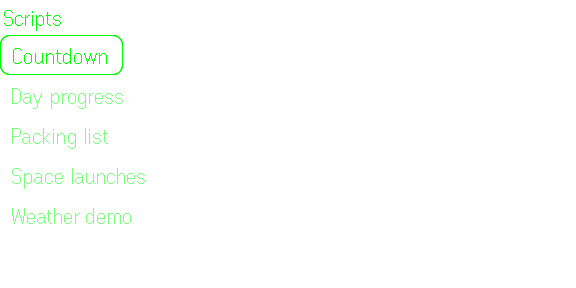
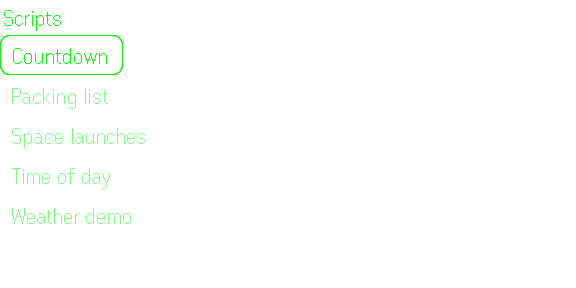
Preload one example (Time of day); 0.1.1; LICENSE, README; public-repo prep
- On first launch the app adds one example script, "Time of day" (the date
  and time, and progress through the day, week, month and year). Deleting
  it doesn't bring it back. Simulator: a clean first launch of the
  production build lists exactly that one script; 0 console errors.
- Store screenshots re-captured with it; listing mentions it; 0.1.1
  release notes (replaces the unpublished 0.1.0).
- MIT LICENSE and README for the public repo; install.sh downloads from
  liyiyuian/evenScriptable/main/bridge. Project notes stay local.

Changed region(s): [[0.0312, 0.5938, 0.25, 0.6562], [0.0312, 0.3125, 0.2188, 0.375], [0.0, 0.4375, 0.25, 0.5]]

diff --git a/glasses/src/examples/time-of-day.js b/glasses/src/examples/time-of-day.js
@@ -1,0 +1,26 @@
+// Time of day: the example that comes with the app. The date and time, then how far through the
+// day, week, month and year we are. On the glasses, tap to run it again.
+const now = new Date()
+const df = new DateFormatter()
+df.dateFormat = "EEEE, MMM d"
+const bar = (p) => "━".repeat(Math.round(p / 5)) + "─".repeat(20 - Math.round(p / 5))
+const pct = (from, to) => Math.round(((now - from) / (to - from)) * 100)
+const day = new Date(now.getFullYear(), now.getMonth(), now.getDate())
+const week = new Date(day)
+week.setDate(day.getDate() - ((day.getDay() + 6) % 7)) // Monday
+const rows = [
+  ["Today", pct(day, new Date(day.getFullYear(), day.getMonth(), day.getDate() + 1))],
+  ["This week", pct(week, new Date(week.getFullYear(), week.getMonth(), week.getDate() + 7))],
+  ["This month", pct(new Date(now.getFullYear(), now.getMonth(), 1), new Date(now.getFullYear(), now.getMonth() + 1, 1))],
+  ["This year", pct(new Date(now.getFullYear(), 0, 1), new Date(now.getFullYear() + 1, 0, 1))],
+]
+
+const w = new ListWidget()
+w.addText(df.string(now) + " · " + now.toLocaleTimeString([], { hour: "numeric", minute: "2-digit" }))
+for (const [label, p] of rows) {
+  const row = w.addStack()
+  row.addText(label)
+  row.addSpacer()
+  row.addText(bar(p) + " " + p + "%")
+}
+Script.setWidget(w)

diff --git a/glasses/src/store.ts b/glasses/src/store.ts
@@ -3,6 +3,8 @@
 // Large values are split across keys of 50,000 characters, as Even's device-features skill shows.
 import { call } from './sdk.ts'
 import type { StoredFile } from './runtime/types.ts'
+import { uuid } from './runtime/scriptable.ts'
+import TIME_OF_DAY from './examples/time-of-day.js?raw'
 
 export interface ScriptMeta {
   id: string
@@ -61,6 +63,10 @@ export const store = {
     this.keychain = await getJSON('keychain', {})
     this.files = await getJSON('files', {})
     this.bridge = await getJSON('bridge', null)
+    if (!(await getRaw('seeded'))) { // first launch only: the one example that comes with the app
+      await this.saveScript({ id: uuid(), name: 'Time of day', fav: false }, TIME_OF_DAY)
+      await setRaw('seeded', '1')
+    }
   },
 
   async source(id: string): Promise<string> {

diff --git a/README.md b/README.md
@@ -1,0 +1,91 @@
+# evenScriptable
+
+Run your own JavaScript scripts on **Even Realities G2** smart glasses. Add a script on your phone
+(in the Even app), run it from the glasses. Many [Scriptable](https://scriptable.app) scripts run as
+they are: widgets show as text, `Alert` and `UITable` become a list you pick from, live scripts update
+while they run.
+
+Inspired by Scriptable, the iOS automation app by Simon B. Støvring. This project is independent and
+not affiliated with Scriptable or its developer. (In the Even Hub the app is listed as **Script Runner**,
+since app names can't contain "Even".)
+
+## How it works
+
+```
+ phone (Even app)                                  your computer (optional)
+ ┌──────────────────────────────┐   Tailscale    ┌──────────────────────────────┐
+ │ glasses app (Even Hub plugin)│ ─────────────► │ scriptbridge (Python stdlib) │ ─► the web / local services
+ │  scripts run in a Web Worker │  HTTPS + pwd   │  127.0.0.1:8795, tailnet-only│
+ └──────────────┬───────────────┘                └──────────────────────────────┘
+                │ Bluetooth (Even SDK)
+          G2 glasses: text, lists, gestures
+```
+
+- **Scripts run on the phone**, in a Web Worker inside the plugin, with Scriptable-like globals.
+- The Even app only lets a plugin reach approved addresses and the WebView enforces CORS, so a script's
+  `Request` goes through **scriptbridge**, a small server on your own computer, reachable only over your
+  own Tailscale network and protected by a password. Scripts that don't fetch anything need no computer.
+
+## Install the bridge (optional)
+
+Needs Linux with `systemd --user`, Python 3.10+, and Tailscale (logged in; your phone on the same tailnet).
+
+```bash
+curl -fsSL https://raw.githubusercontent.com/liyiyuian/evenScriptable/main/bridge/install.sh | bash
+```
+
+It installs a `scriptbridge` user service, publishes it with `tailscale serve --https=8447` (asks for
+sudo once), and prints an **address** and a **password**. Re-run it to upgrade (it keeps your password
+and settings); `… | bash -s -- --uninstall` removes it. Settings: `~/.config/scriptbridge.env`.
+`BRIDGE_SCRIPTS_DIR` is a folder of `.js` files the phone app can import (default `~/Scripts`).
+
+## Use
+
+1. Install the app from the Even Hub (needs the Even Realities app 2.2.10 or later; iPhone only for now).
+2. Open it in the Even app. Under **Computer**, paste the bridge's address and password → **Save** → **Test**.
+3. **New script** (paste) or **Import from computer**. Put values scripts read with `Keychain.get`
+   (API tokens) in the **Keychain** section. A script's **Parameter** is Scriptable's widget parameter.
+4. On the glasses: **tap** = run, **swipe** = move / scroll, **double-tap** = back (on the list: exit).
+   **Tap then hold** opens a menu with your starred scripts. A **Start** script opens at launch.
+
+## What works
+
+| Scriptable | On the glasses |
+|---|---|
+| `ListWidget`, `WidgetStack`, text, dates | lines of text (styling, colours and drawings are dropped) |
+| `Alert`, `UITable` | a list to pick from (typing isn't possible: text fields cancel) |
+| `QuickLook`, `console.log` | text output |
+| `Request` | through the bridge |
+| `Keychain`, `FileManager` | the Even app's storage on the phone |
+| `DateFormatter`, `RelativeDateTimeFormatter`, `Timer`, `UUID`, `Data`, `importModule`, `args.widgetParameter` | yes |
+| `config.runsOnG2` | `true`, so a script can draw its own glasses layout |
+| `Calendar`, `Reminder`, `Contact`, `Location`, `Photos`, `Notification`, `WebView`, `Speech`, … | not available (a clear error) |
+
+## Security
+
+- Anyone with the bridge password can make your computer fetch any address it can reach, including
+  services on the computer itself (that is how a script can read a local feed). Keep it tailnet-only
+  and keep the password secret.
+- Scripts you add can read all Keychain values and use the bridge. Only add scripts you trust.
+- Keychain values are stored in the Even app's storage, not the iOS Keychain.
+- A script that blocks for 15 s is stopped; a double-tap always stops a running script.
+
+## Development
+
+```
+glasses/   the Even Hub plugin (Vite + TypeScript, official @evenrealities/even_hub_sdk)
+bridge/    scriptbridge.py, install.sh, tests/
+store-assets/  Even Hub listing, privacy policy, icon, screenshots (made from demo-scripts/)
+```
+
+```bash
+cd glasses && npm install
+npm test                              # runtime tests (node --test)
+npm run compat -- <folder> [out.md]   # run a folder of Scriptable scripts, report what works
+npm run build && npm run pack         # dist/ → .ehpk (stamps min app version from SDK 0.0.16)
+cd ../bridge && python3 -m unittest discover tests && bash tests/test_install.sh
+```
+
+## License
+
+MIT — see [LICENSE](LICENSE).

diff --git a/store-assets/README.md b/store-assets/README.md
@@ -9,11 +9,11 @@ Copy-and-paste material for the Even Hub listing. The agent prepares it; you upl
   `https://raw.githubusercontent.com/liyiyuian/evenScriptable/main/store-assets/privacy.txt`.
 - `icon.svg` → `icon-512.png` — app icon (one green hue on dark, like the sibling apps). Uploaded in
   the portal; the manifest has no icon field. Re-export: `inkscape -w 512 -h 512 icon.svg -o icon-512.png`.
-- `screenshots/` — 576×288 captures from the real Even Hub simulator, using only the made-up demo
-  scripts in `demo-scripts/` (never the owner's scripts or data). Re-create with
+- `screenshots/` — 576×288 captures from the real Even Hub simulator, using only the app's preloaded
+  example and the made-up demo scripts in `demo-scripts/` (never the owner's scripts or data). Re-create with
   `./capture_screenshots.sh`:
   1. `1-script-list.png` — the script list
-  2. `2-widget.png` — a Scriptable widget shown as text (Day progress)
+  2. `2-time-of-day.png` — the example that comes with the app (Time of day), a widget shown as text
   3. `3-choice.png` — a UITable to pick from (Packing list)
   4. `4-long-list.png` — a long output that scrolls (Space launches)
   5. `5-weather.png` — another widget (Weather demo, made-up numbers)
